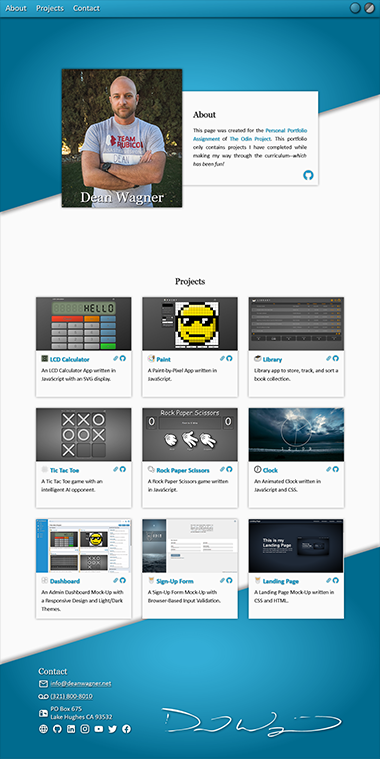
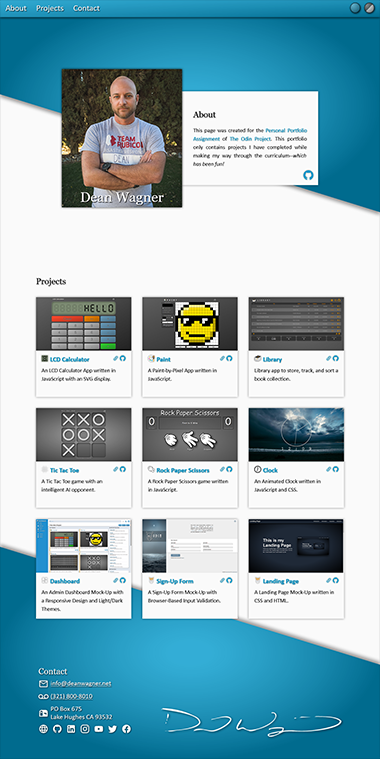
updated screenshots

diff --git a/res/portfolio.css b/res/portfolio.css
@@ -124,6 +124,7 @@ header > svg {
     left: 0;
     position: absolute;
     top: 0;
+    transform: scale(-1,1);
     width: 100%;
     z-index: -1;
 }
@@ -177,7 +178,7 @@ header nav #nav_styles input {
 }
 
 header nav #nav_styles span {
-    background: radial-gradient(ellipse at 25% 25%, rgba(255,255,255,0.3), rgba(0,0,0,0.3));
+    background: radial-gradient(ellipse at 25% 25%, rgba(255,255,255,0.3), rgba(0,0,0,0.4));
     border: 1px solid #000;
     border-radius: 0.9em;
     box-shadow: 0.1rem 0.1rem 0.3rem rgba(0,0,0,0.8);
@@ -194,14 +195,23 @@ header nav #nav_styles span {
 header nav #nav_styles span:hover,
 header nav #nav_styles span:focus,
 header nav #nav_styles span:active {
+    background: radial-gradient(ellipse at 25% 25%, rgba(255,255,255,0.5), rgba(0,0,0,0.6));
     border: 1px solid #fafafa;
     box-shadow: 0 0 0.3rem #fafafa;
 }
 
 header nav #nav_styles #theme_picker {
     background:
-        radial-gradient(ellipse at 25% 25%, rgba(255,255,255,0.5), rgba(0,0,0,0.5)),
-        linear-gradient(to bottom right, rgba(0,0,0,0.9) 50%, rgba(255,255,255,0.9) 50%);
+            radial-gradient(ellipse at 25% 25%, rgba(255,255,255,0.5), rgba(0,0,0,0.6)),
+            linear-gradient(to bottom right, rgba(0,0,0,0.9) 50%, rgba(255,255,255,0.9) 50%);
+}
+
+header nav #nav_styles #theme_picker:hover,
+header nav #nav_styles #theme_picker:focus,
+header nav #nav_styles #theme_picker:active {
+    background:
+            radial-gradient(ellipse at 25% 25%, rgba(255,255,255,0.7), rgba(0,0,0,0.8)),
+            linear-gradient(to bottom right, rgba(0,0,0,0.9) 50%, rgba(255,255,255,0.9) 50%);
 }
 
 header #heading_wrapper {
@@ -286,13 +296,13 @@ main h2 {
     grid-column: 1 / span 3;
     grid-row: 1;
     margin: 0;
-    padding: 0;
-    text-align: center;
+    padding: 0 ;
 }
 
 main section {
     background-color: var(--color-background);
     box-shadow: var(--shadow-main-box);
+    margin: 0 auto;
     max-width: 650px;
     transition: all 0.3s ease-out;
 }
@@ -455,6 +465,7 @@ footer > svg {
     height: auto;
     left: 0;
     position: absolute;
+    transform: scale(-1,1);
     width: 100%;
     z-index: -1;
 }
@@ -475,6 +486,7 @@ footer > svg {
     header #about_me { margin: -2em 0 0; }
     main { grid-template-columns: 1fr; grid-template-rows: auto; max-width: 90vw; }
     main h2 { grid-column: 1; grid-row: 1; margin: 0; }
-    footer { flex-direction: column; padding: 4em 1em 1em; }
-    footer #contact_info { padding: 0 4em; }
+    footer { flex-direction: column; gap: 0; padding: 2em; }
+    footer #contact_info { gap: 0.3em; padding: 0; }
+    footer #sig_img #sig-svg { bottom: 0.5rem; position: absolute; right: 0.5rem; width: 33%; }
 }
